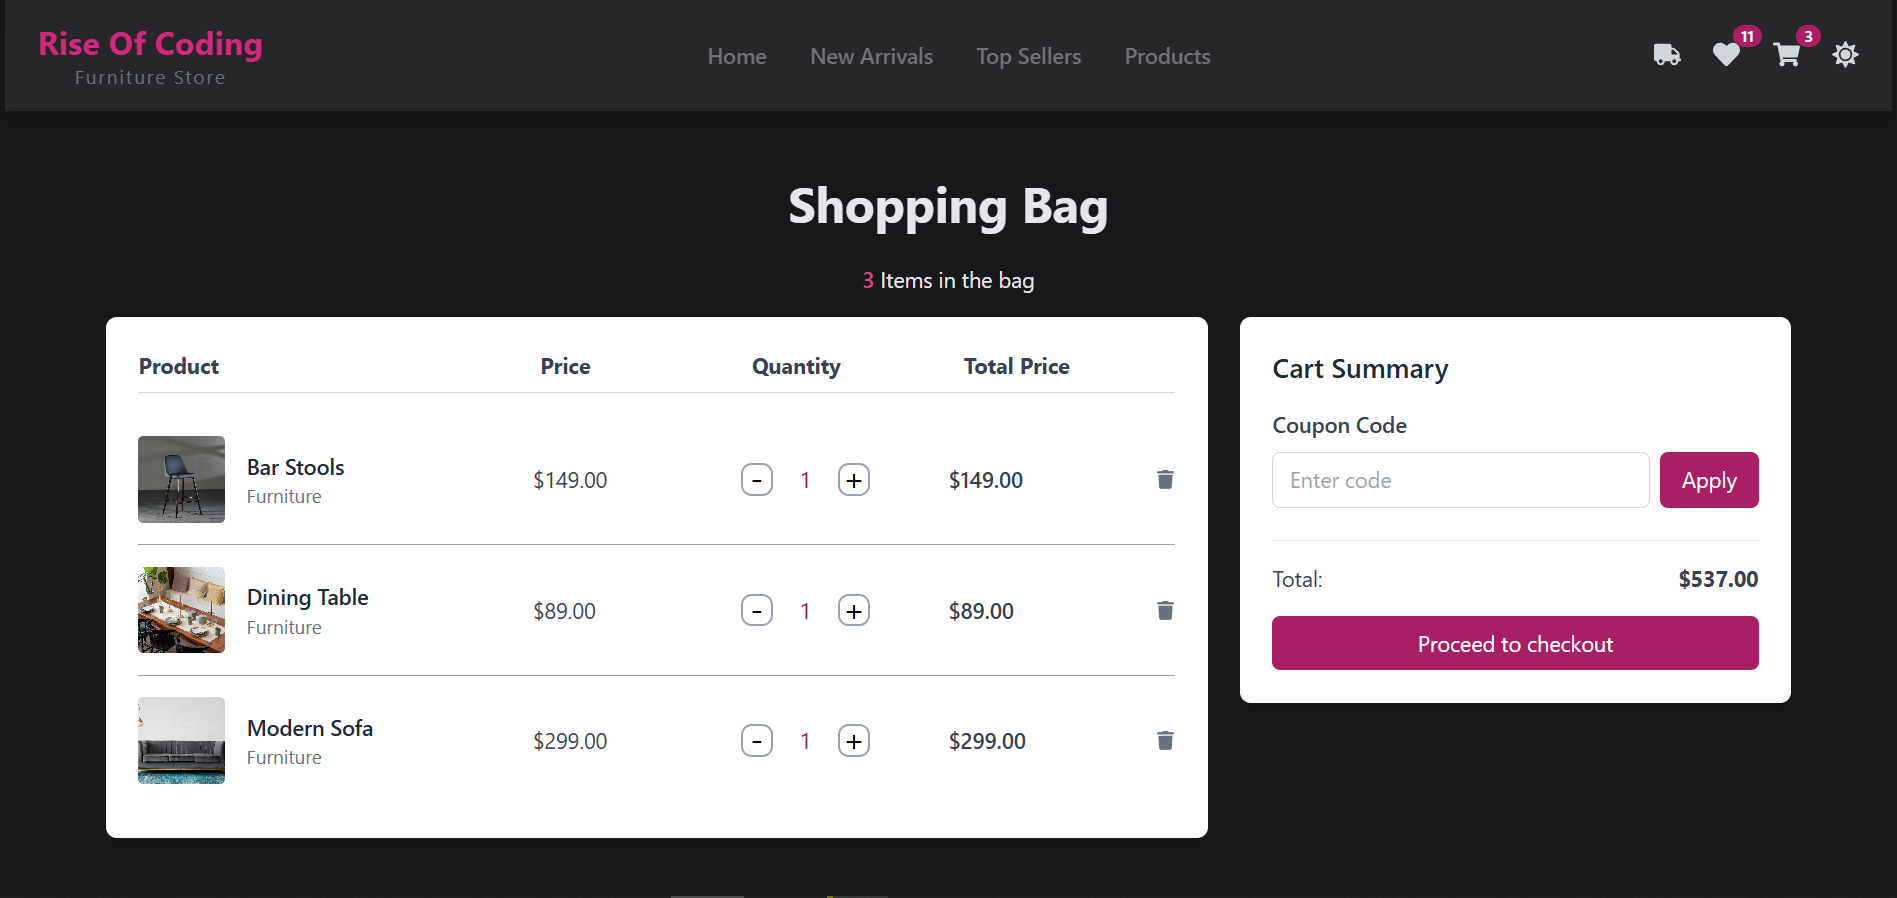
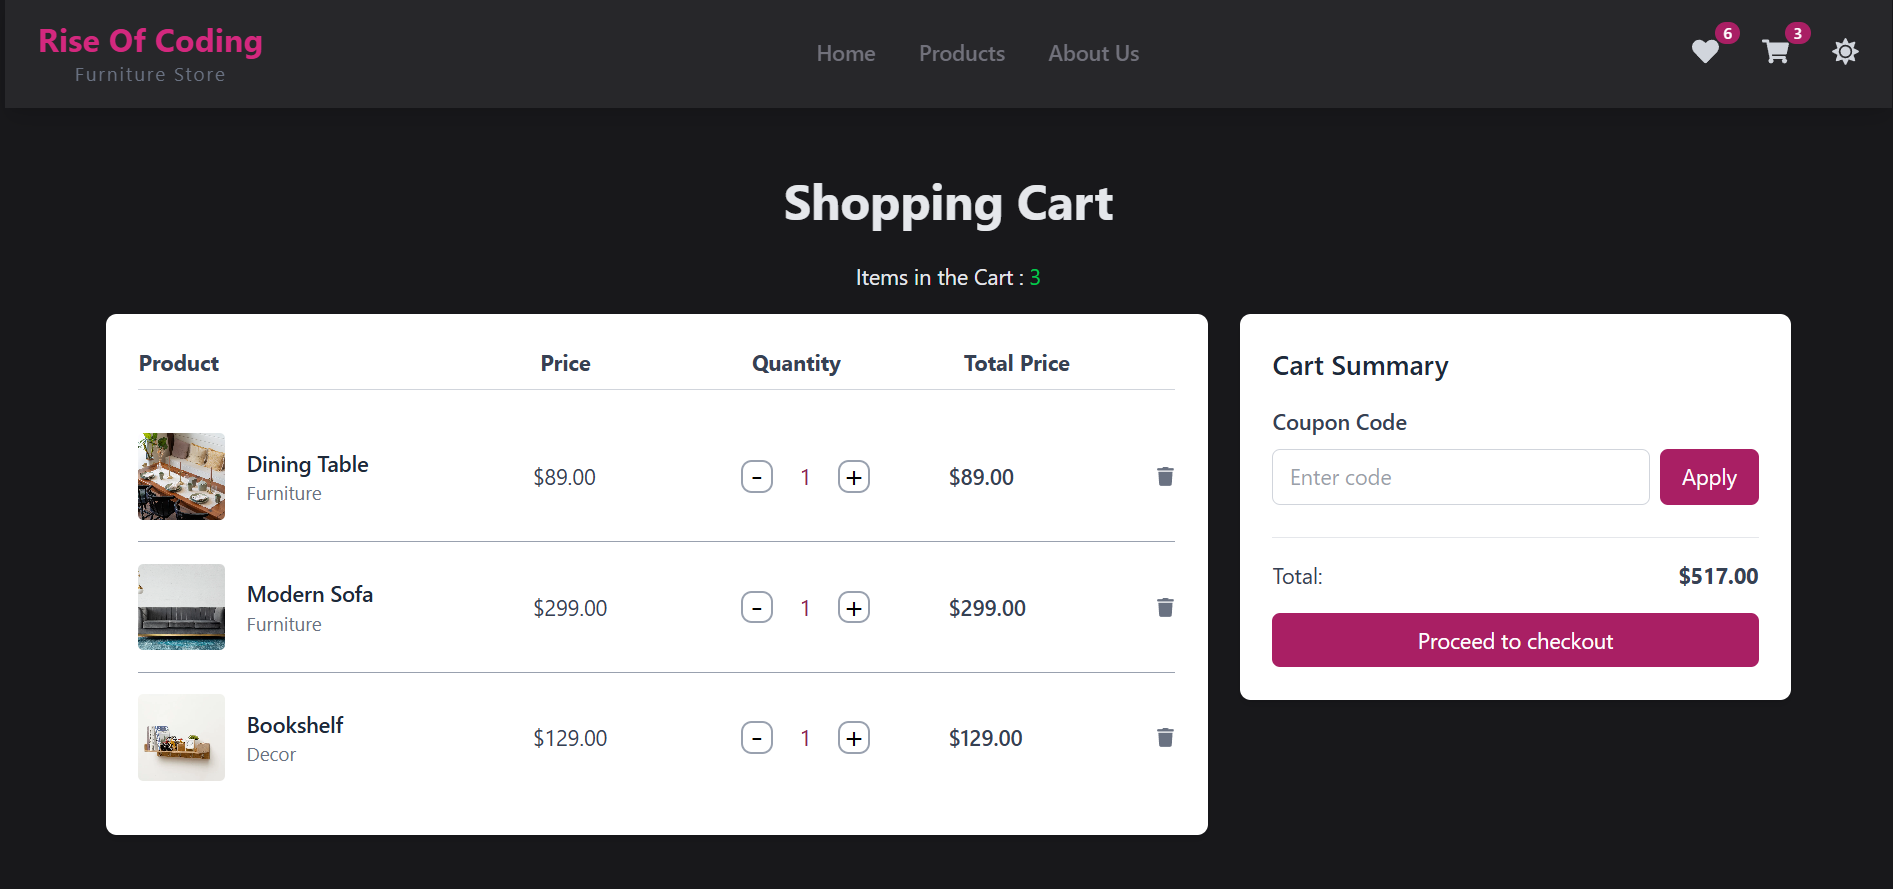
change som images

diff --git a/src/app/cart/CartPage.jsx b/src/app/cart/CartPage.jsx
@@ -42,11 +42,13 @@ const removeItem = useCallback((id) => {
   return (
     <div className="w-full max-w-7xl mx-auto my-12 px-4">
       <h1 className="text-3xl md:text-4xl font-bold mb-6 text-center">
-        Shopping Bag
+        Shopping Cart
       </h1>
       <p className={cartItems.length === 0 ? "hidden" : "mb-4 text-center"}>
-        <span className="text-[#ce498c] font-semibold">{cartItems.length}</span>{" "}
-        Items in the bag
+        <span className="text-[#ce498c] font-semibold"></span>{" "}
+        Items in the Cart  : <span className="text-green-500">
+          {cartItems.length}
+        </span>
       </p>
 
       <div className="flex flex-col lg:flex-row gap-6">

diff --git a/src/components/Navbar.jsx b/src/components/Navbar.jsx
@@ -89,8 +89,7 @@ const wishlistItemCount = wishlistItems.length;
 
       {/* right section: icons */}
       <div className="flex items-center gap-6 text-gray-700 text-xl">
-        <div className="navIcon flex gap-4 md:gap-6">
-          <FaTruck className=" hover:text-[#a01f64] cursor-pointer" />
+        <div className="navIcon flex gap-6 md:gap-8">
           <Link href="/wishlist" className="relative">
             <FaHeart className=" hover:text-[#a01f64]" />
               {wishlistItemCount > 0 && (

diff --git a/src/app/wishlist/Wishlist.jsx b/src/app/wishlist/Wishlist.jsx
@@ -110,7 +110,7 @@ const Wishlist = () => {
   return (
     <div className="max-w-6xl mx-auto px-4 py-4">
       <h2 className="text-xl md:text-2xl font-bold bg-[#8d1841] text-white text-center mb-6 p-4 rounded-2xl w-full md:w-2/4 mx-auto shadow-md">
-        Your Favourite Products{" "}
+        Your Favourite Products : {" "}
         <span className="text-green-500">{wishlistItems.length}</span>
       </h2>
       {wishlistItems.length === 0 ? (
